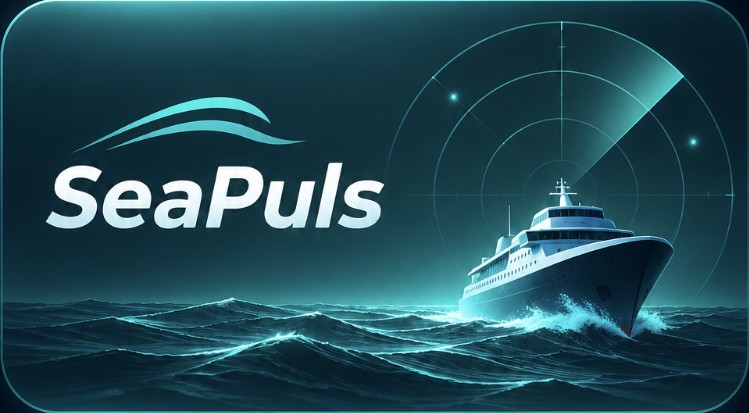
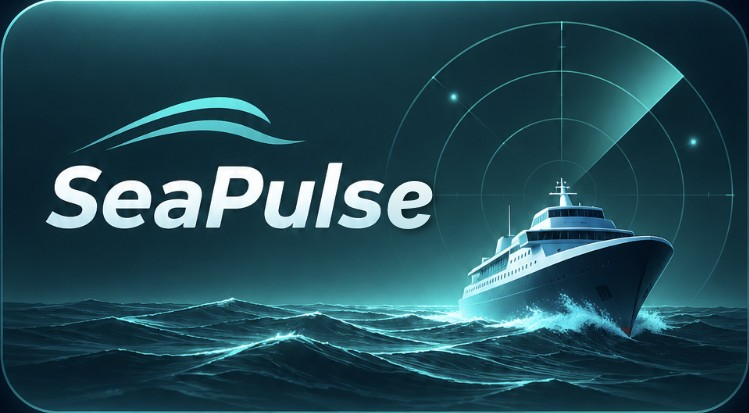
Startside: navnene SkyPulse og SeaPulse i bildet
Claude-Session: https://claude.ai/code/session_01WEdTZgY9C2k7buA9yCdXHV

Changed region(s): [[0.4913, 0.4358, 0.5834, 0.5521]]

diff --git a/public/start.html b/public/start.html
@@ -4,7 +4,7 @@
 <meta charset="utf-8">
 <meta name="viewport" content="width=device-width, initial-scale=1, viewport-fit=cover">
 <meta name="theme-color" content="#050d1c">
-<title>SkyPuls og SeaPuls</title>
+<title>SkyPulse og SeaPulse</title>
 <link rel="icon" type="image/svg+xml" href="icon.svg?v=2">
 <link rel="apple-touch-icon" href="apple-touch-icon.png?v=2">
 <meta name="apple-mobile-web-app-capable" content="yes">
@@ -34,8 +34,8 @@
 <body>
   <h1 style="position:absolute;width:1px;height:1px;overflow:hidden;clip:rect(0 0 0 0)">Velg kart</h1>
   <div class="apps">
-    <a class="app sky" href="https://seriksso-maker.github.io/flyradar/" data-app="fly" data-cta="Åpne flykartet ›"><img src="start-sky.jpg" alt="SkyPuls – flytrafikk i sanntid" width="749" height="413"></a>
-    <a class="app sea" href="./" data-app="sea" data-cta="Åpne skipskartet ›"><img src="start-sea.jpg" alt="SeaPuls – skipstrafikk i sanntid" width="749" height="413"></a>
+    <a class="app sky" href="https://seriksso-maker.github.io/flyradar/" data-app="fly" data-cta="Åpne flykartet ›"><img src="start-sky.jpg?v=2" alt="SkyPulse – flytrafikk i sanntid" width="749" height="413"></a>
+    <a class="app sea" href="./" data-app="sea" data-cta="Åpne skipskartet ›"><img src="start-sea.jpg?v=2" alt="SeaPulse – skipstrafikk i sanntid" width="749" height="413"></a>
   </div>
   <label class="remember"><input type="checkbox" id="rem">Husk valget mitt neste gang</label>
   <footer>Utviklet av <b>Grøtbekklia AS</b><br>Versjon 1.0.0</footer>
